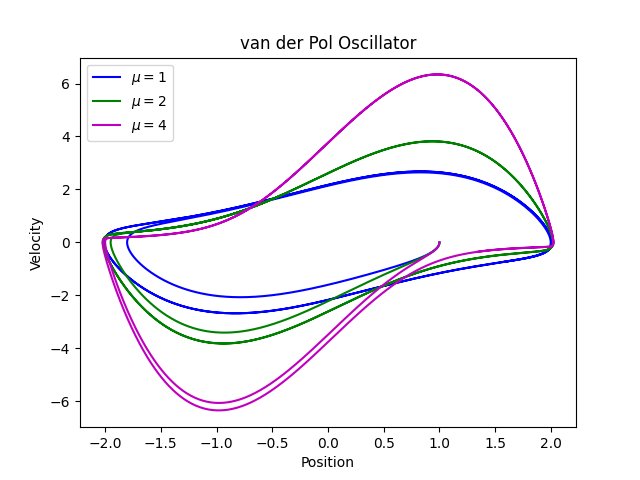
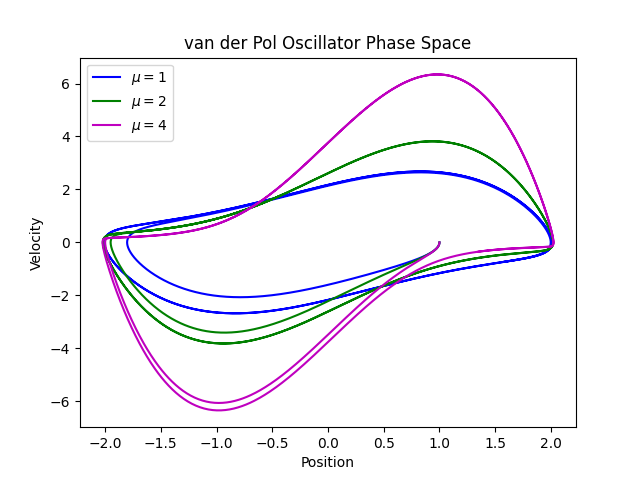
Problem 2 almost done

Changed region(s): [[0.2812, 0.0625, 0.75, 0.125]]

diff --git a/PS-9/Problem2/prob2.py b/PS-9/Problem2/prob2.py
@@ -7,6 +7,17 @@ V_0 = 100 #[m/s]
 rho = 1.22 #[kg/m^3]
 C = 0.47 #Unitless drag coefficient.
 g = 9.81 #[m/s^2] Acceleration due to gravity.
+theta = np.pi/6 #[radians -> 30 degrees] (Counter-clockwise with respect to the horizontal).
+
+#Arbitrary time parameters:
+t_0 = 0
+t_f = 7 #[s]
+N = 100 #Number of time steps.
+delta_t = (t_f - t_0)/N
+t = np.arange(t_0, t_f, delta_t)
+#------------------------------------------------------------------------------------------------
+
+
 
 #Collective drag term as a function of mass for part c).
 def drag(m):
@@ -27,26 +38,67 @@ def cannonball(motion, m):
 
 
 
-def trajectory(V_0, theta, m):
+def trajectory(m):
     x_array = []
     y_array = []
     Vx_0 = V_0*np.cos(theta)
     Vy_0 = V_0*np.sin(theta)
     motion = np.array([0,0,Vx_0,Vy_0], float) #Initializing x,y,Vx,Vy state array.
 
-    for x_p in x_array:
+    for t_p in t:
         x_array.append(motion[0])
         y_array.append(motion[1])
         #Runge-Kutta 4th Order implimentation:
         #Application of RK4 in these Problems don't need normal time manipulation because
         #none of the equations are explicitly time-dependent.
-        k1 = delta_t*cannonball(state, m)
-        k2 = delta_t*cannonball(state + 0.5*k1, m)
-        k3 = delta_t*cannonball(state + 0.5*k2, m)
-        k4 = delta_t*cannonball(state + k3, m)
-        state += (k1 + 2*k2 + 2*k3 + k4)/6
+        k1 = delta_t*cannonball(motion, m)
+        k2 = delta_t*cannonball(motion + 0.5*k1, m)
+        k3 = delta_t*cannonball(motion + 0.5*k2, m)
+        k4 = delta_t*cannonball(motion + k3, m)
+        motion += (k1 + 2*k2 + 2*k3 + k4)/6
     return x_array, y_array
+#-------------------------------------------------------------------------------------------------
 
 
 
+#Plotting trajectory:
+plt.figure()
+plt.subplot()
+plt.title('Mass Effect on Cannonball Trajectory')
+plt.ylim(-1,60)
+plt.xlabel('X Position [meters]')
+plt.ylabel('Y Position [meters]')
+colors = ['r', 'orange', 'yellow', 'g', 'b', 'purple', 'c', 'brown']
+for c in range(0,8,1):
+    plt.plot(trajectory(1*2**c)[0], trajectory(1)[1], color = colors[c], label = f'mass = {1*2**c}kg')
+plt.legend(loc='upper right', fontsize=8) 
+plt.savefig('Mass_Effect')
+
+
+#Plotting the maximum x-displacement at a given angle and initial velocity as a function of mass.
+plt.figure()
+plt.title('Mass Effect on Cannonball Trajectory')
+plt.xlabel('Cannonball Mass [kg]')
+plt.ylabel('Maximum Horizontal Displacement [meters]')
+
+zero = 1
+m_var = np.arange(1, 10000, 100)
+mass_values = []
+x_max_values = []
+
+for mass in m_var:
+    y_array = trajectory(mass)[1]  # Extract the y-array (vertical positions)
+    for i in range(10, len(y_array) - 10):  # Loop through the y_array to find where y = 0
+        if np.abs(y_array[i]) < zero:  # When y reaches 0 (or close to 0)
+            x_max_index = i  # Store the index where y = 0
+            mass_values.append(mass)  # Add mass to the list
+            x_max_values.append(trajectory(mass)[0][x_max_index])  # Add the corresponding x value
+            print(mass_values, x_max_values)
+        else:
+            break
+
+plt.scatter(mass_values, x_max_values, color='m', label='Max Horizontal Displacement')
+plt.legend()
+
+plt.savefig('Mass_Effect2')
 

diff --git a/PS-9/Problem1/prob1.py b/PS-9/Problem1/prob1.py
@@ -21,10 +21,12 @@ def xv_evolution(x_0, v_0, oscillator):
         v_array.append(state[1])
         
         #Runge-Kutta 4th Order implimentation:
-        k1 = delta_t*oscillator(state, t_p)
-        k2 = delta_t*oscillator(state + 0.5*k1, t_p + 0.5*delta_t)
-        k3 = delta_t*oscillator(state + 0.5*k2, t_p + 0.5*delta_t)
-        k4 = delta_t*oscillator(state + k3, t_p + delta_t)
+        #Application of RK4 in these Problems don't need normal time manipulation because
+        #none of the equations are explicitly time-dependent.
+        k1 = delta_t*oscillator(state)
+        k2 = delta_t*oscillator(state + 0.5*k1)
+        k3 = delta_t*oscillator(state + 0.5*k2)
+        k4 = delta_t*oscillator(state + k3)
         state += (k1 + 2*k2 + 2*k3 + k4)/6
     return x_array, v_array
 #-------------------------------------------------------------------------------------------------
@@ -32,7 +34,7 @@ def xv_evolution(x_0, v_0, oscillator):
 
 
 #Harmonic Oscillator function that returns the derivative functions. 
-def harmonic_osc(state, t):
+def harmonic_osc(state):
     x = state[0]
     v = state[1]
     x_prime = v
@@ -62,7 +64,7 @@ plt.savefig('Harmonic_Oscillator_PhaseSpace')
 
 
 #Anharmonic Oscillator function that returns the derivative functions. 
-def anharmonic_osc(state, t):
+def anharmonic_osc(state):
     x = state[0]
     v = state[1]
     x_prime = v
@@ -94,7 +96,7 @@ t = np.arange(t_0, t_f, delta_t)
 
 def Pol_solver(x_0, v_0, mu):
     #van der Pol oscillator function that returns the derivative functions.
-    def Pol_osc(state, t, mu):
+    def Pol_osc(state, mu):
         x = state[0]
         v = state[1]
         x_prime = v
@@ -110,16 +112,17 @@ def Pol_solver(x_0, v_0, mu):
         v_array.append(state[1])
         
         #Runge-Kutta 4th Order implimentation:
-        k1 = delta_t*Pol_osc(state, t_p, mu)
-        k2 = delta_t*Pol_osc(state + 0.5*k1, t_p + 0.5*delta_t, mu)
-        k3 = delta_t*Pol_osc(state + 0.5*k2, t_p + 0.5*delta_t, mu)
-        k4 = delta_t*Pol_osc(state + k3, t_p + delta_t, mu)
+        k1 = delta_t*Pol_osc(state, mu)
+        k2 = delta_t*Pol_osc(state + 0.5*k1, mu)
+        k3 = delta_t*Pol_osc(state + 0.5*k2, mu)
+        k4 = delta_t*Pol_osc(state + k3, mu)
         state += (k1 + 2*k2 + 2*k3 + k4)/6
     return x_array, v_array
 
+
 # Plotting Pol oscillator with different mu:
 plt.figure()
-plt.title('van der Pol Oscillator')
+plt.title('van der Pol Oscillator Phase Space')
 plt.xlabel('Position')
 plt.ylabel('Velocity')
 plt.plot(Pol_solver(1,0,1)[0], Pol_solver(1,0,1)[1], color = 'b', label=r'$\mu = 1$')
